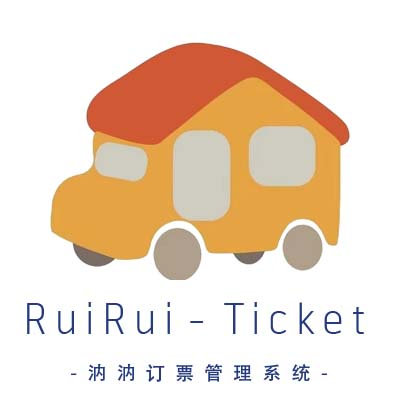
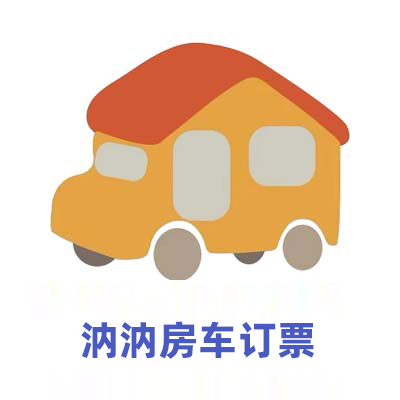
修复地图选址

Changed region(s): [[0.06, 0.75, 0.78, 0.96], [0.81, 0.75, 0.9, 0.84]]

diff --git a/src/components/PickupLocation/AMapPickup.vue b/src/components/PickupLocation/AMapPickup.vue
@@ -1,0 +1,203 @@
+<script setup lang="ts">
+import AMapLoader from "@amap/amap-jsapi-loader";
+import { getCurrentInstance, onBeforeMount, onUnmounted, ref } from "vue";
+
+interface MapConfigOption {
+    resizeEnable?: boolean;
+    center?: number[];
+    zoom?: number;
+}
+
+interface MapConfigure {
+    amapKey: string;
+    options: MapConfigOption;
+}
+
+interface MapConfigureInter {
+    on?: Fn;
+    destroy?: Fn;
+    clearEvents?: Fn;
+    addControl?: Fn;
+    getCenter?: Fn;
+    setCenter?: Fn;
+    setZoom?: Fn;
+    plugin?: Fn;
+}
+
+let map: any;
+
+const mapConfigure = {
+    amapKey: "3124c4451dc02716d85f97682d9ac094",
+    options: {
+        resizeEnable: true,
+        // center: [121.553958, 29.869472],
+        zoom: 16
+    }
+};
+
+window._AMapSecurityConfig = {
+    securityJsCode: "2d0df44c352ade94430f0ffe174a32bd"
+};
+
+const instance = getCurrentInstance();
+
+const addressList = ref<any[]>([]);
+
+const emit = defineEmits(['pick']);
+
+const sureAddress = (data: any) => {
+    // map.setCenter(data.location);
+    emit('pick', data)
+    addressList.value = [];
+};
+
+onBeforeMount(() => {
+    if (!instance) return;
+    let { options } = mapConfigure;
+
+    AMapLoader.load({
+        key: mapConfigure.amapKey,
+        version: "2.0",
+        plugins: [],
+        AMapUI: {
+            version: "1.1",
+            plugins: ["misc/PositionPicker", "misc/PoiPicker"]
+        }
+    })
+        .then(AMap => {
+            map = new AMap.Map(instance.refs.mapView, options);
+
+            map.plugin(["AMap.Geolocation"], () => {
+                let geolocation = new AMap.Geolocation({
+                    enableHighAccuracy: true,
+                    timeout: 10000,
+                    buttonOffset: new AMap.Pixel(10, 20),
+                    zoomToAccuracy: true,
+                    buttonPosition: "RB"
+                });
+
+                map.addControl(geolocation);
+                geolocation.getCurrentPosition(function (status: any, result: unknown) {
+                    if (status == "complete") {
+                        onComplete(result);
+                    } else {
+                        onError(result);
+                    }
+                });
+            });
+
+            function onComplete(data: any) {
+                map.setCenter(data.position);
+            }
+            function onError(error: unknown) {
+                console.log("error", error);
+            }
+
+            let positionPicker = new AMapUI.PositionPicker({
+                mode: "dragMap",
+                map: map
+            });
+
+            positionPicker.on("success", function (positionResult: any) {
+                addressList.value = positionResult.regeocode.pois;
+            });
+
+            positionPicker.on("fail", function (positionResult: any) {
+                console.log("positionResult", positionResult);
+            });
+
+            positionPicker.start();
+
+            let poiPicker = new AMapUI.PoiPicker({
+                input: instance.refs.pickerInput
+            });
+            poiPicker.on("poiPicked", function (poiResult: any) {
+                map.setCenter(poiResult.item.location);
+            });
+        })
+        .catch(() => {
+            throw "地图加载失败，请重新加载";
+        });
+});
+
+onUnmounted(() => {
+    if (map) {
+        // 销毁地图实例
+        map.destroy() && map.clearEvents("click");
+    }
+});
+</script>
+
+<template>
+    <div class="map-container">
+        <div ref="mapView" class="map-view"></div>
+        <div class="search">
+            <input type="text" ref="pickerInput" placeholder="搜索地点" />
+        </div>
+        <div class="address-wrapper">
+            <div class="address-list">
+                <div class="address-list-item" v-for="item in addressList" :key="item.id" @click="sureAddress(item)">
+                    <p>{{ item.name }}</p>
+                    <p>{{ item.address }}</p>
+                </div>
+            </div>
+        </div>
+    </div>
+</template>
+
+<style lang="scss" scoped>
+.map-container {
+    position: relative;
+    background-color: #fff;
+    width: 100%;
+    height: 100%;
+
+    .map-view {
+        position: absolute;
+        width: 100%;
+        height: 300px;
+        // position: fixed !important;
+        // top: 0;
+    }
+
+    input {
+        width: 32%;
+        height: 32px;
+        padding: 8px 15px;
+        position: absolute;
+        z-index: 10;
+        top: 20px;
+        left: 20px;
+        outline: none;
+        border: 1px solid #d3d3d3;
+        border-radius: 5px;
+        background-color: #fff;
+    }
+
+    .address-wrapper {
+        padding-top: 300px;
+        cursor: pointer;
+
+        .address-list {
+            position: relative;
+            // height: 50vh;
+            overflow: auto;
+
+            &-item {
+                font-size: 12px;
+                padding: 6px 12px;
+                border-bottom: 1px solid #e8e8e8;
+
+                p:first-child {
+                    color: #333;
+                    font-size: 13px;
+                }
+
+                p:last-child {
+                    color: #666;
+                }
+            }
+        }
+    }
+}
+</style>

diff --git a/src/components/PickupLocation/index.vue b/src/components/PickupLocation/index.vue
@@ -1,24 +1,20 @@
 <template>
-  <el-dialog
-    class="dialog-body-p0"
-    v-model="visible"
-    :title="state.title"
-    width="80vw"
-    @close="doClose()"
-  >
-    <iframe
+  <el-dialog class="dialog-body-p0" v-model="visible" :title="state.title" width="80vw" @close="doClose()">
+    <!-- <iframe
       allow="geolocation; microphone; camera; midi; encrypted-media;"
       ref="iframeRef"
       class="w100%"
       style="height: 60vh"
       :src="`https://m.amap.com/picker/?key=608d75903d29ad471362f8c58c550daf&center=${center}`"
-    ></iframe>
+    ></iframe> -->
+    <a-map-pickup @pick="sureAddress"></a-map-pickup>
   </el-dialog>
 </template>
 
 <script lang="ts" setup>
 import { ref } from 'vue';
 import { Action } from './types';
+import AMapPickup from './AMapPickup.vue'
 
 defineProps({
   center: {
@@ -44,26 +40,38 @@ const open = () => {
 
 defineExpose({ open });
 
-watch(
-  () => iframeRef.value,
-  () => {
-    if (!iframeRef.value) return;
+// watch(
+//   () => iframeRef.value,
+//   () => {
+//     if (!iframeRef.value) return;
 
-    const iframe = iframeRef.value;
-    iframe.onload = function () {
-      iframe.contentWindow.postMessage('hello', 'https://m.amap.com/picker/');
-    };
-    window.addEventListener(
-      'message',
-      function (e) {
-        emit('action', { action: 'confrim', data: e.data });
-        doClose();
-      },
-      false
-    );
-  },
-  { immediate: true }
-);
+//     const iframe = iframeRef.value;
+//     iframe.onload = function () {
+//       iframe.contentWindow.postMessage('hello', 'https://m.amap.com/picker/');
+//     };
+//     window.addEventListener(
+//       'message',
+//       function (e) {
+//         emit('action', { action: 'confrim', data: e.data });
+//         doClose();
+//       },
+//       false
+//     );
+//   },
+//   { immediate: true }
+// );
+
+const sureAddress = (data: any) => {
+
+  const location: any = {
+    name: data.name,
+    address: data.address,
+    location: `${data.location.lng},${data.location.lat}`
+  }
+
+  emit('action', { action: 'confrim', data: location });
+  doClose();
+};
 
 const doClose = () => {
   if (!visible.value) return;
@@ -77,7 +85,7 @@ const doClose = () => {
   });
 };
 
-const doSubmit = async () => {};
+const doSubmit = async () => { };
 
 const handleAction = (action: Action) => {
   const close = () => {

diff --git a/types/components.d.ts b/types/components.d.ts
@@ -5,6 +5,7 @@ import '@vue/runtime-core'
 
 declare module '@vue/runtime-core' {
   export interface GlobalComponents {
+    AMapPickup: typeof import('./../src/components/PickupLocation/AMapPickup.vue')['default']
     Breadcrumb: typeof import('./../src/components/Breadcrumb/index.vue')['default']
     DatePicker: typeof import('./../src/components/DatePicker/index.vue')['default']
     DictRadio: typeof import('./../src/components/DictRadio/index.vue')['default']

diff --git a/src/layouts/default/components/Navbar.vue b/src/layouts/default/components/Navbar.vue
@@ -49,7 +49,7 @@
               <el-dropdown-item>Docs</el-dropdown-item>
             </a> -->
             <el-dropdown-item @click.native="logout">
-              <span style="display: block">Log Out</span>
+              <span style="display: block">退出登录</span>
             </el-dropdown-item>
           </el-dropdown-menu>
         </template>

diff --git a/index.html b/index.html
@@ -5,7 +5,7 @@
   <meta charset="UTF-8" />
   <link rel="icon" href="/favicon.svg" />
   <meta name="viewport" content="width=device-width, initial-scale=1.0" />
-  <title>汭汭订票管理</title>
+  <title>汭汭房车订票</title>
   <!-- element css cdn, if you use custom theme, remove it. -->
   <!-- <link
       rel="stylesheet"

diff --git a/src/views/business/carousel/index.vue b/src/views/business/carousel/index.vue
@@ -8,7 +8,7 @@
               <el-select
                 class="w100%"
                 v-model="searchForm.status"
-                placeholder="座位状态"
+                placeholder="轮播状态"
                 @change="search"
               >
                 <el-option label="全部" value=""></el-option>

diff --git a/src/router/index.ts b/src/router/index.ts
@@ -24,7 +24,7 @@ export const constantRoutes: RouteItem[] = [
         component: () => import('~/views/dashboard/index.vue'),
         name: 'dashboard',
         meta: {
-          title: 'Dashboard',
+          title: '数据统计',
           icon: 'dashboard',
           affix: true,
           noCache: true

diff --git a/src/views/business/order/index.vue b/src/views/business/order/index.vue
@@ -70,6 +70,7 @@
                   showNormal
                   v-model="searchForm.orderStatus"
                   type="sys_order_status"
+                  placeholder="订单状态"
                   @change="search"
                 ></dict-select>
               </el-form-item>

diff --git a/src/layouts/default/components/Sidebar/Logo.vue b/src/layouts/default/components/Sidebar/Logo.vue
@@ -30,7 +30,7 @@ defineProps({
   }
 })
 
-const logo = ref<boolean>(true);
+const logo = ref<boolean>(false);
 const title = ref<string>(globSettings.title);
 
 </script>
